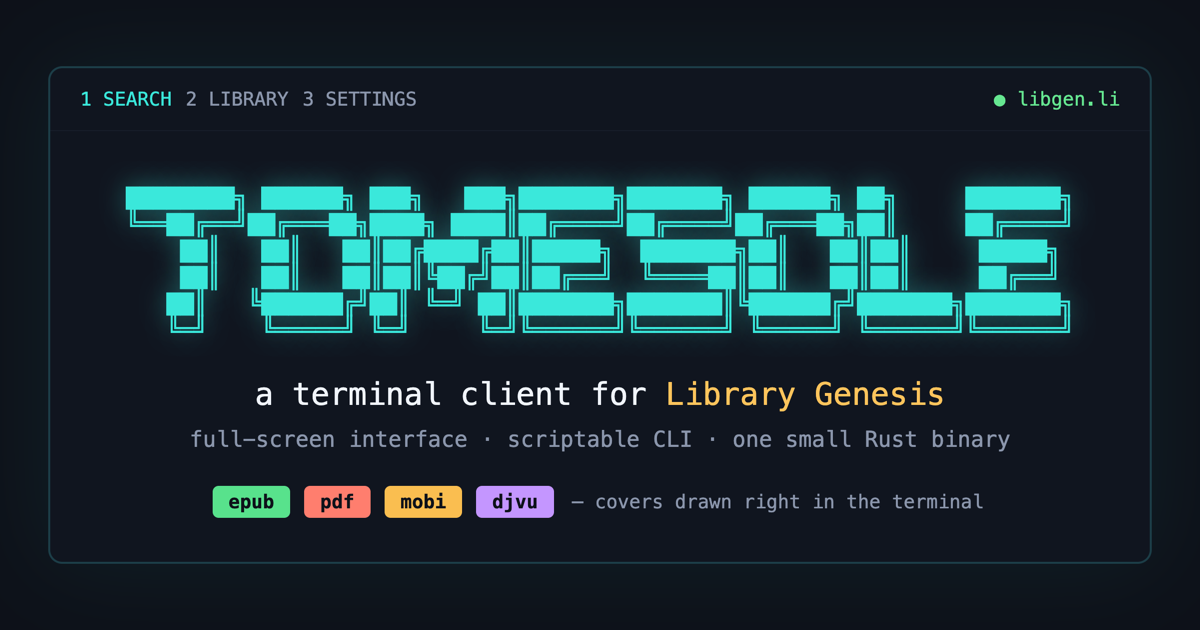
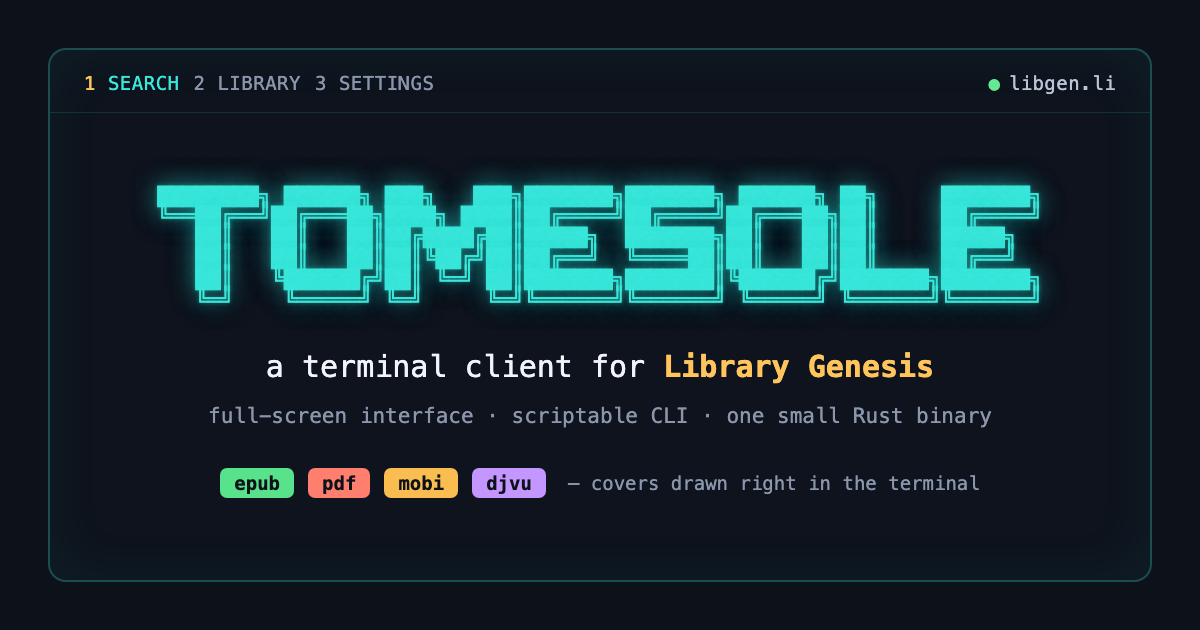
Release 0.1.5: refreshed doc assets
New monogram-T icon, a social card rebuilt from its HTML source
(docs/social-card.html, wordmark no longer garbled), and a re-recorded
demo without compression artifacts.

Claude-Session: https://claude.ai/code/session_01FvMqP1YMVrzqjcGafuJgvs

diff --git a/docs/social-card.html b/docs/social-card.html
@@ -1,0 +1,90 @@
+<!DOCTYPE html>
+<!-- Source for docs/social.png (1200x630). Regenerate with:
+     "/Applications/Google Chrome.app/Contents/MacOS/Google Chrome" --headless --disable-gpu \
+       --screenshot=docs/social.png --window-size=1200,630 --hide-scrollbars "file://$PWD/docs/social-card.html"
+     The wordmark must stay in sync with WORDMARK in src/tui.rs. -->
+<html>
+<head>
+<meta charset="utf-8">
+<style>
+  * { margin: 0; padding: 0; box-sizing: border-box; }
+  html, body { width: 1200px; height: 630px; overflow: hidden; }
+  body {
+    background: #0d1119;
+    font-family: "SF Mono", Menlo, Monaco, monospace;
+    display: flex; align-items: center; justify-content: center;
+  }
+  .frame {
+    width: 1104px; height: 534px;
+    border: 2px solid rgba(58, 232, 219, 0.28);
+    border-radius: 18px;
+    background: #0e131d;
+    box-shadow: 0 0 60px rgba(58, 232, 219, 0.06) inset;
+    display: flex; flex-direction: column;
+  }
+  .tabs {
+    display: flex; align-items: center; justify-content: space-between;
+    padding: 22px 34px 18px;
+    border-bottom: 1px solid rgba(58, 232, 219, 0.14);
+    font-size: 19px; letter-spacing: 0.5px;
+  }
+  .tabs .left { display: flex; }
+  .tabs .on  { color: #3ae8db; }
+  .tabs .num { color: #ffc55c; }
+  .tabs .off { color: #8b96ac; }
+  .tabs .left > span + span { margin-left: 14px; }
+  .mirror { color: #bac4d6; font-size: 19px; }
+  .dot { color: #66e791; margin-right: 8px; }
+  .stage {
+    flex: 1; display: flex; flex-direction: column;
+    align-items: center; justify-content: center;
+    padding-bottom: 10px;
+  }
+  pre.wordmark {
+    font-size: 21px; line-height: 0.99;
+    color: #3ae8db;
+    text-shadow: 0 0 26px rgba(58, 232, 219, 0.55), 0 0 4px rgba(58, 232, 219, 0.35);
+    margin-bottom: 40px;
+  }
+  .tagline { font-size: 30px; color: #f1f5fb; margin-bottom: 20px; }
+  .tagline b { color: #ffc55c; font-weight: 600; }
+  .sub { font-size: 21px; color: #8b96ac; margin-bottom: 40px; }
+  .pills { display: flex; align-items: center; font-size: 19px; }
+  .pill {
+    padding: 4px 14px; border-radius: 7px; margin-right: 14px;
+    color: #0d1119; font-weight: 700;
+  }
+  .epub { background: #58e28c; }
+  .pdf  { background: #ff7e6e; }
+  .mobi { background: #fabe50; }
+  .djvu { background: #c496ff; }
+  .pills i { font-style: normal; color: #8b96ac; margin-left: 8px; }
+</style>
+</head>
+<body>
+  <div class="frame">
+    <div class="tabs">
+      <div class="left">
+        <span class="on"><span class="num">1</span> SEARCH</span>
+        <span class="off"><span class="num" style="color:#8b96ac">2</span> LIBRARY</span>
+        <span class="off"><span class="num" style="color:#8b96ac">3</span> SETTINGS</span>
+      </div>
+      <span class="mirror"><span class="dot">●</span>libgen.li</span>
+    </div>
+    <div class="stage">
+      <pre class="wordmark">████████╗ ██████╗ ███╗   ███╗███████╗███████╗ ██████╗ ██╗     ███████╗
+╚══██╔══╝██╔═══██╗████╗ ████║██╔════╝██╔════╝██╔═══██╗██║     ██╔════╝
+   ██║   ██║   ██║██╔████╔██║█████╗  ███████╗██║   ██║██║     █████╗
+   ██║   ██║   ██║██║╚██╔╝██║██╔══╝  ╚════██║██║   ██║██║     ██╔══╝
+   ██║   ╚██████╔╝██║ ╚═╝ ██║███████╗███████║╚██████╔╝███████╗███████╗
+   ╚═╝    ╚═════╝ ╚═╝     ╚═╝╚══════╝╚══════╝ ╚═════╝ ╚══════╝╚══════╝</pre>
+      <div class="tagline">a terminal client for <b>Library Genesis</b></div>
+      <div class="sub">full-screen interface · scriptable CLI · one small Rust binary</div>
+      <div class="pills">
+        <span class="pill epub">epub</span><span class="pill pdf">pdf</span><span class="pill mobi">mobi</span><span class="pill djvu">djvu</span>
+        <i>— covers drawn right in the terminal</i>
+      </div>
+    </div>
+  </div>
+</body>
+</html>
